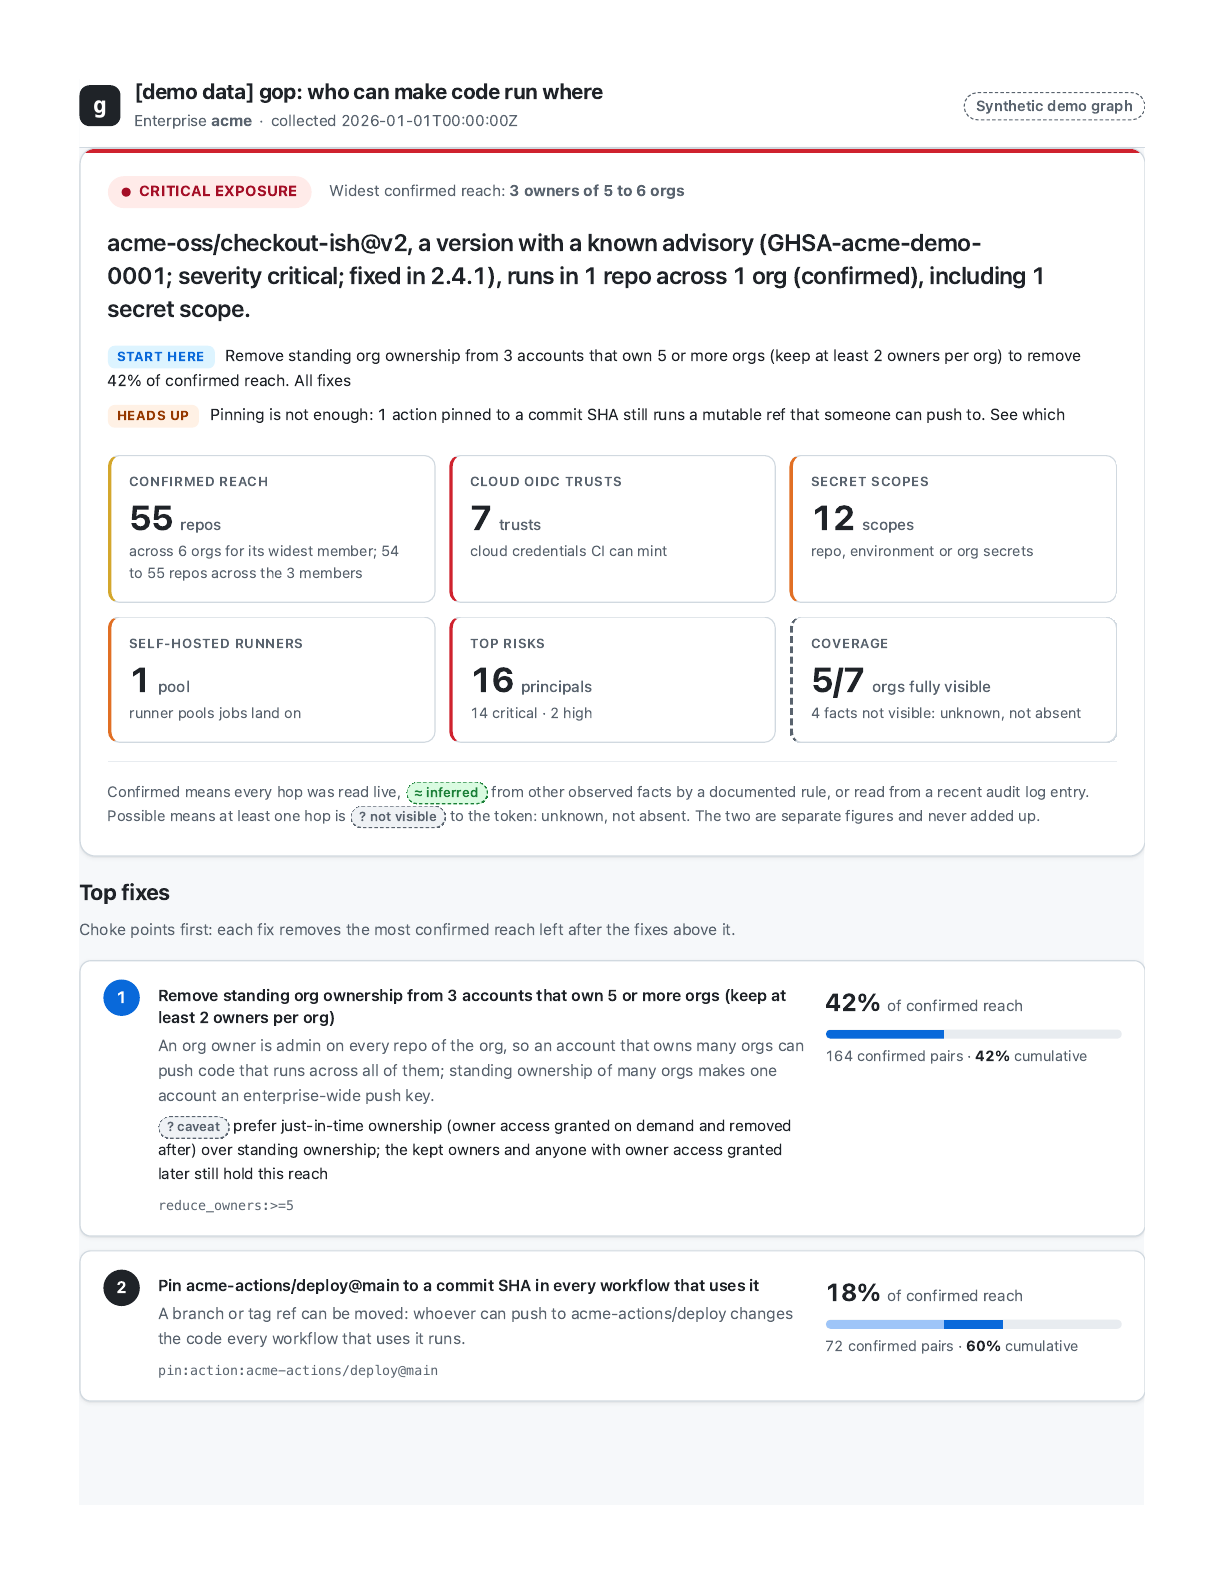
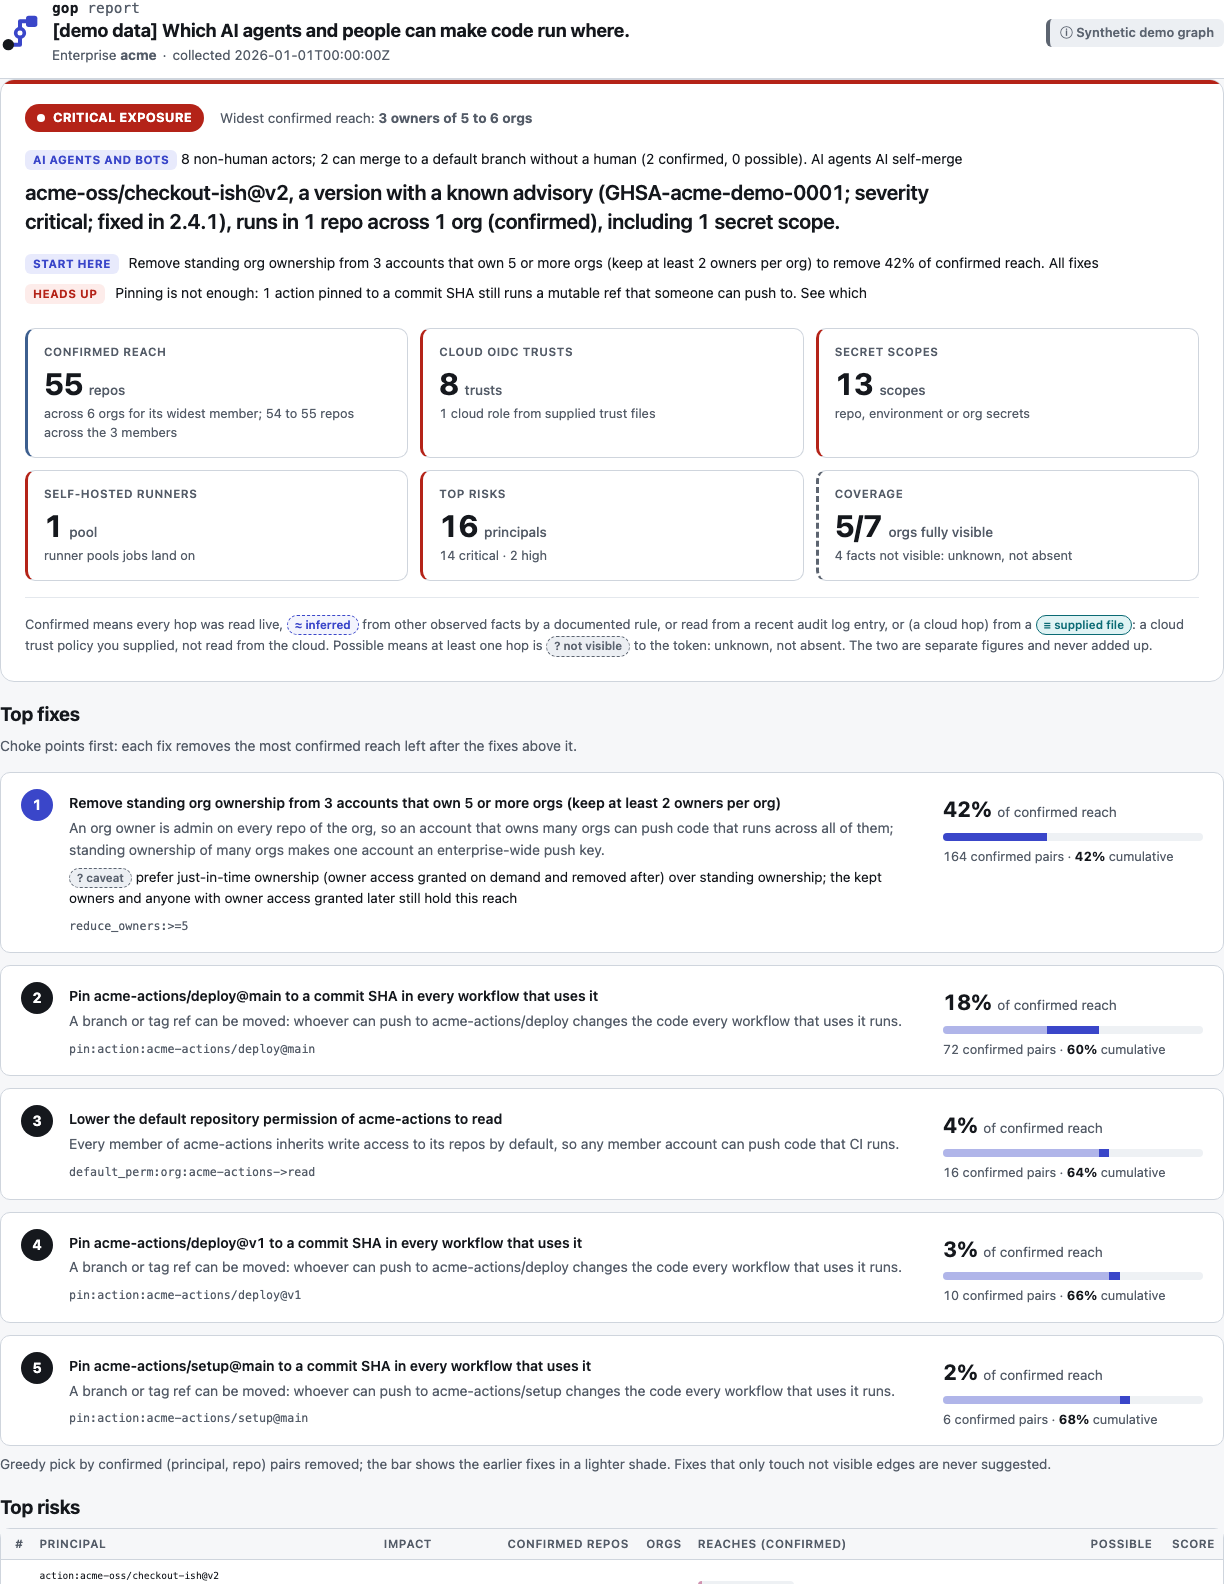
test(report): sample the report screenshots for yellow; refresh print, drop unused before shots
TestNoYellowPNG checks every pixel of docs/assets/report-*.png with
brand.IsYellow, and the report CSS and page scans use brand.IsYellow
too. The print screenshot is regenerated with the brand, and the
report-before-*.png files, which nothing links, are removed.

diff --git a/internal/report/brand_test.go b/internal/report/brand_test.go
@@ -1,7 +1,9 @@
 package report
 
 import (
-	"math"
+	"image/png"
+	"os"
+	"path/filepath"
 	"regexp"
 	"strconv"
 	"strings"
@@ -52,7 +54,7 @@ var (
 
 // TestReportNoYellow: like brand's TestNoYellow, for the report. No color in
 // the style block, the inline script or the rendered pages (inline SVG
-// included) has an HSL hue of 40 to 70 degrees with saturation above 30%,
+// included) is yellow by brand.IsYellow (HSL hue 30 to 70, saturation above 30%),
 // and no CSS uses a yellow, gold, amber or orange keyword.
 func TestReportNoYellow(t *testing.T) {
 	sources := map[string]string{"style": styleCSS, "script": scriptJS}
@@ -95,42 +97,8 @@ func TestReportNoYellow(t *testing.T) {
 	}
 }
 
-func TestYellowCheck(t *testing.T) {
-	for _, c := range []struct {
-		r, g, b float64
-		want    bool
-	}{{255, 255, 0, true}, {212, 167, 44, true}, {210, 153, 34, true}, {242, 163, 58, false}, {58, 70, 201, false}, {128, 128, 100, false}} {
-		if got := yellow(c.r, c.g, c.b); got != c.want {
-			t.Errorf("yellow(%v,%v,%v) = %v, want %v", c.r, c.g, c.b, got, c.want)
-		}
-	}
-}
-
-// yellow reports an HSL hue of 40 to 70 degrees with saturation above 30%,
-// the same rule as brand.TestNoYellow.
-func yellow(r, g, b float64) bool {
-	r, g, b = r/255, g/255, b/255
-	mx, mn := math.Max(r, math.Max(g, b)), math.Min(r, math.Min(g, b))
-	l, d := (mx+mn)/2, mx-mn
-	if d == 0 {
-		return false
-	}
-	s := d / (1 - math.Abs(2*l-1))
-	var h float64
-	switch mx {
-	case r:
-		h = math.Mod((g-b)/d, 6)
-	case g:
-		h = (b-r)/d + 2
-	default:
-		h = (r-g)/d + 4
-	}
-	h *= 60
-	if h < 0 {
-		h += 360
-	}
-	return h >= 40 && h <= 70 && s > 0.30
-}
+// yellow is brand.IsYellow for float channels parsed from CSS.
+func yellow(r, g, b float64) bool { return brand.IsYellow(uint8(r), uint8(g), uint8(b)) }
 
 // TestNoHorizontalScroll390: at a 390px viewport the page must not be wider
 // than the screen. The section nav is the widest row (every link on one
@@ -163,5 +131,44 @@ func TestNoHorizontalScroll390(t *testing.T) {
 	}
 	if !strings.Contains(render(t, loadAcme(t), "html"), `<meta name="viewport" content="width=device-width, initial-scale=1">`) {
 		t.Error("no responsive viewport meta")
+	}
+}
+
+// TestNoYellowPNG samples every pixel of the report screenshots that the
+// README and docs/report.md show: none may be yellow by brand.IsYellow.
+// Regenerate them from gop report --demo after a style change.
+func TestNoYellowPNG(t *testing.T) {
+	files, err := filepath.Glob("../../docs/assets/report-*.png")
+	if err != nil || len(files) == 0 {
+		t.Fatalf("no report screenshots: %v", err)
+	}
+	for _, f := range files {
+		fh, err := os.Open(f)
+		if err != nil {
+			t.Fatal(err)
+		}
+		img, err := png.Decode(fh)
+		_ = fh.Close()
+		if err != nil {
+			t.Fatalf("%s: %v", f, err)
+		}
+		bd, n := img.Bounds(), 0
+		for y := bd.Min.Y; y < bd.Max.Y; y++ {
+			for x := bd.Min.X; x < bd.Max.X; x++ {
+				r, g, b, a := img.At(x, y).RGBA()
+				if a < 0x8000 {
+					continue
+				}
+				if brand.IsYellow(uint8(r>>8), uint8(g>>8), uint8(b>>8)) {
+					if n == 0 {
+						t.Errorf("%s: yellow pixel #%02x%02x%02x at %d,%d", f, r>>8, g>>8, b>>8, x, y)
+					}
+					n++
+				}
+			}
+		}
+		if n > 0 {
+			t.Errorf("%s: %d yellow pixels", f, n)
+		}
 	}
 }
